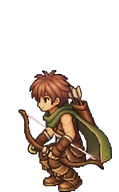
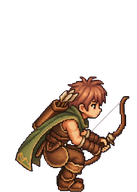
feat: hero direction flip + normalized video frames for all archer states

diff --git a/midgard_outpost/test/run/player_component_test.dart b/midgard_outpost/test/run/player_component_test.dart
@@ -32,6 +32,27 @@ Future<Sprite> _testSpriteSized(int width, int height) async {
 }
 
 void main() {
+  test('player flips horizontally when moving left and back', () async {
+    final player = PlayerComponent.forTest(
+      groundY: 500,
+      sprite: await _testSprite(),
+    );
+
+    player.setHorizontal(0);
+    player.update(0.016);
+    expect(player.isFacingLeft, isFalse);
+
+    player.setHorizontal(-1);
+    player.update(0.016);
+    expect(player.isFacingLeft, isTrue);
+    expect(player.transform.scale.x, isNegative);
+
+    player.setHorizontal(1);
+    player.update(0.016);
+    expect(player.isFacingLeft, isFalse);
+    expect(player.transform.scale.x, isPositive);
+  });
+
   test('setGroundY snaps grounded player when ground line rises', () async {
     final shortLayout = RunLayout(500);
     final tallLayout = RunLayout(800);

diff --git a/midgard_outpost/lib/run/components/player_component.dart b/midgard_outpost/lib/run/components/player_component.dart
@@ -196,6 +196,18 @@ class PlayerComponent extends SpriteAnimationGroupComponent<HeroAnimName> {
     _horizontal = axis.clamp(-1, 1).toDouble();
   }
 
+  bool _facingLeft = false;
+
+  bool get isFacingLeft => _facingLeft;
+
+  void _syncFacing() {
+    final wantLeft = _horizontal < 0;
+    if (wantLeft != _facingLeft) {
+      _facingLeft = wantLeft;
+      flipHorizontallyAroundCenter();
+    }
+  }
+
   bool jump() {
     if (isGrounded) {
       _verticalVelocity = _jumpVelocity;
@@ -297,6 +309,7 @@ class PlayerComponent extends SpriteAnimationGroupComponent<HeroAnimName> {
   @override
   void update(double dt) {
     super.update(dt);
+    _syncFacing();
     position.x += _horizontal * moveSpeed * dt;
     if (position.x < 0) {
       position.x = 0;
